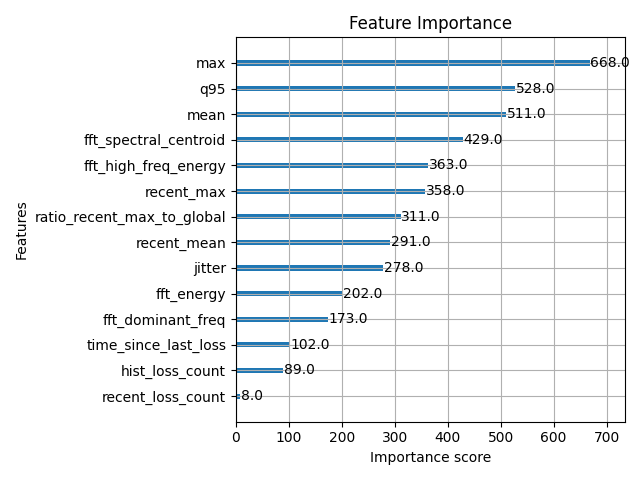
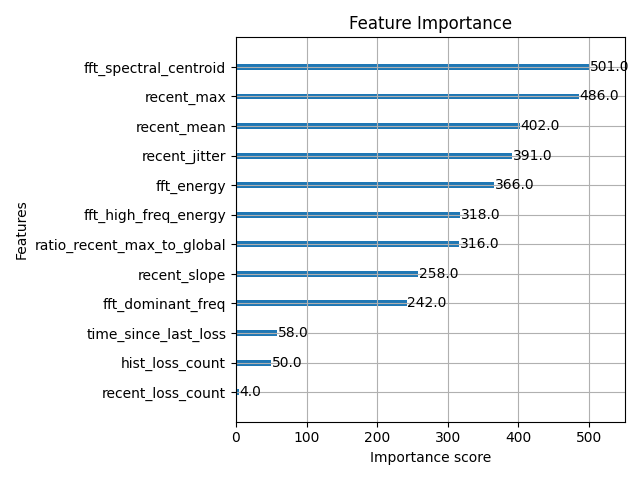
Update project status and refine exploratory analysis
- Updated project status to reflect June 2026 advancements, including LSTM integration and optimal threshold discovery.
- Enhanced exploratory analysis notebook with corrected execution counts and updated file paths for saved visualizations.
- Added new metrics and confusion matrix images for fiber and mobile Neural Network and XGBoost models.
- Removed outdated visualizations and replaced them with updated results for better clarity and relevance.

diff --git a/STATUS.md b/STATUS.md
@@ -4,19 +4,17 @@ This project aims to predict network packet loss events on a Metropolitan Milan 
 
 ## Project Status: 🟡 Execution & Refinement Phase
 
-- **Latest Updates (May 2026):** 
-  - Addressed extreme class imbalance (packet loss < 0.5%) by implementing **SMOTE** and `scale_pos_weight`.
-  - Expanded dataset configuration to include all CPE pairs across both capture windows, creating a massive global dataset.
-  - Lowered XGBoost decision threshold to 10% to prioritize Recall over Precision.
-  - **4-Way Feature Evaluation Experiment (Statistical vs. Raw Sequence):** Inspired by state-of-the-art literature on QoT Forecasting, we evaluated model performance using both aggregated statistical features (mean, jitter) and raw chronological sequences (15 exact delay values).
+- **Latest Updates (June 2026):** 
+  - **LSTM Integration & Homework Fusion:** Created `main_comparison_LSTM.py` to evaluate three completely different architectures side-by-side: XGBoost (tabular, from H1), MLP Neural Network (tabular, from H2), and LSTM (time-series, from H3). This unified pipeline standardizes evaluation across all course topics.
+  - **Optimal Threshold Discovery (The PR-Curve Fix):** Discovered that a rigid `0.5` decision threshold masks the model's intelligence due to extreme class imbalance (giving empty confusion matrices). Modified `evaluate_model` to dynamically compute the **Optimal F1-Score Threshold** from the Precision-Recall curve (which often drops to ~0.08), drastically recovering True Positives.
+  - **Data Physics & The "Invisible Fault":** Ran a direct Pearson correlation analysis on the raw signals. Discovered that on certain links (`cpe_a-cpe_c`), delay is highly predictive of future loss (delay doubles before failure). However, on other links (like `fiber` and `cpe_a-cpe_b`), packet loss is an instantaneous catastrophic event with **zero correlation** to historical delay. Implemented safe-guards in the pipeline to handle perfectly clean test sets (0 faults) where PR-optimization would otherwise divide by zero.
+  - **Dynamic Configuration:** Extracted `tunnel_types` into the `config.yaml` to allow seamless toggling between evaluating solely on `mobile` or `fiber` without altering source code.
+  - Addressed extreme class imbalance (packet loss < 0.5%) by implementing **SMOTE** and `scale_pos_weight` and custom `class_weights` with initial bias tuning for Deep Learning.
+  - **4-Way Feature Evaluation Experiment (Statistical vs. Raw Sequence):** 
     - **XGBoost** performed best with **Statistical Features** (F1: 0.40, Recall: 77%). Decision trees struggle to extract temporal patterns from raw arrays, relying heavily on hand-crafted aggregate features like jitter.
-    - **Neural Network (MLP)** performed significantly better with **Raw Sequence Features** (F1: 0.68, Recall: 62%, Precision: 75%). By feeding the raw chronological delays, the MLP successfully learned the exact temporal signature preceding a packet loss on the 4G network, drastically reducing false positives compared to XGBoost and proving the viability of sequence-based forecasting for anomaly detection.
-  - **Key Insight on SD-WAN Predictive Routing (Fiber vs 4G):** 
-    - **4G Mobile:** Statistical features (delay trends, jitter) show gradual degradation before a loss, allowing the models to successfully predict drops. The low precision (~15%) vs high recall is actually optimal for SD-WAN: a false alarm simply causes a safe, temporary traffic reroute to Fiber, whereas missing a drop (False Negative) degrades the user's VoIP/Video experience.
-    - **Fiber:** Models fail to predict loss (0 True Positives) because fiber drops are exceedingly rare (e.g., 5 losses in over 104,000 test windows) and happen instantaneously. There is absolutely no preceding statistical degradation in the 15-second lookback window to warn the model.
-  - Demonstrated via KDE feature distributions that the remaining false positives are due to the stochastic nature of network drops (features pre-loss heavily overlap with normal traffic).
-- **Project Goal:** Train XGBoost and Neural Network classifiers to predict packet loss in a future window $X$ using a lookback window $N$, and simulate a Federated Learning setup to compare local vs. federated models.
-- **Approach:** Modular Python scripts, organized for reproducibility, clean logging, and configuration flexibility.
+    - **Neural Network (MLP)** performed significantly better with **Raw Sequence Features** (F1: 0.68, Recall: 62%, Precision: 75%).
+- **Project Goal:** Train XGBoost, Neural Networks, and LSTMs to predict packet loss in a future window $X$ using a lookback window $N$, and simulate a Federated Learning setup to compare local vs. federated models.
+- **Approach:** Modular Python scripts, organized for reproducibility, clean logging, live ROC/PR curve plotting, and configuration flexibility.
 
 ---
 
